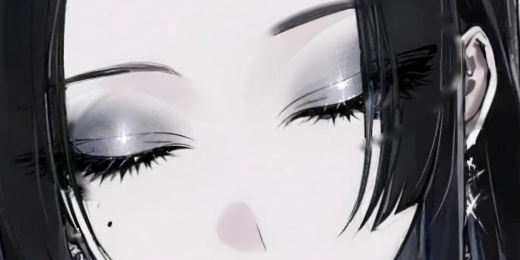
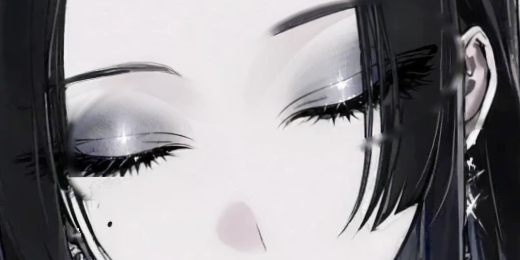
감은 눈 잔상 마저 제거(감은 눈 조각을 맨 위로·가장자리 정리), 보이는 크기만큼만 그려 가볍게, 앱 다시 열 때 화면 꺼짐 방지 다시 걸기
Claude-Session: https://claude.ai/code/session_015z2jERGhkXRnxmKCmzk3Uw

diff --git a/work/celeste/rig/rig.js b/work/celeste/rig/rig.js
@@ -258,6 +258,8 @@ window.CelesteRig = async function(cv, opt = {}){
     draw(t, stage){ EXPR = api.expr; draw(t, stage == null ? api.stage : stage); },
     tap(){ S.react = 1; S.head.vy -= 8; },
     set motion(v){ opt.motion = v; }, get motion(){ return opt.motion; },
+    resize(k){ k = clamp(k, .25, 1); const w = Math.round(IW*k), h = Math.round(IH*k);     // 화면에 보이는 크기만큼만 그려서 가볍게
+      if(cv.width !== w || cv.height !== h){ cv.width = w; cv.height = h; gl.viewport(0, 0, w, h); } },
     point(x, y){ S.pointer = {x, y, t:performance.now()}; },
     seed(s){ let x = s; Math.random = ()=>((x = (x*16807) % 2147483647) / 2147483647); }};
 
@@ -266,11 +268,11 @@ window.CelesteRig = async function(cv, opt = {}){
     ORDER = RIG.order.slice();
     // 얼굴 편집 패치: 눈 감음은 속눈썹 위, 미소·찡그림은 그 위 (앞머리 아래)
     const at = ORDER.indexOf('front_hair');
-    ORDER.splice(at, 0, 'face_frown', 'mouth_smile', 'eyes_closed');
+    ORDER.splice(at, 0, 'face_frown', 'mouth_smile'); ORDER.push('eyes_closed');   // 감은 눈은 맨 위: 눈 위를 지나는 머리카락에 남은 뜬 눈 흔적까지 덮는다(그 머리카락은 머리와 한 덩어리로 움직임)
     const imgs = {};
     await Promise.all(RIG.order.map(async n=>{ imgs[n] = await load(R+n+'.webp'); }).concat(
       ['face_frown','mouth_smile','eyes_closed','mask'].map(async n=>{ imgs[n] = await load(P+n+'.webp'); })));
-    cv.width = IW; cv.height = IH; gl.viewport(0,0,IW,IH);
+    api.resize(opt.scale || 1);
     const prog = program(); gl.enable(gl.BLEND); gl.blendFunc(gl.ONE, gl.ONE_MINUS_SRC_ALPHA);
     U = {p:gl.getAttribLocation(prog,'p'), uv:gl.getAttribLocation(prog,'uv'), ip:gl.getAttribLocation(prog,'ip')};
     [U.p, U.uv, U.ip].forEach(a=>gl.enableVertexAttribArray(a));

diff --git a/work/celeste/app/index.html b/work/celeste/app/index.html
@@ -712,7 +712,7 @@ try{ $('subject').value = localStorage.getItem('midnight.subj') || ''; }catch(e)
 $('subject').addEventListener('change', ()=>{ try{ localStorage.setItem('midnight.subj', $('subject').value.trim()); }catch(e){} });
 $('go').onclick = start;
 $('quit').onclick = giveUp;
-document.addEventListener('visibilitychange', ()=>{ if(!document.hidden && mode === 'run') tickOnce(); });
+document.addEventListener('visibilitychange', ()=>{ if(!document.hidden && mode === 'run'){ tickOnce(); if(mode === 'run') keepAwake(true); } });   // 화면 꺼짐 방지는 앱을 다시 열면 새로 걸어야 한다
 
 { const d = new Date(), age = moonAge(d);
   $('date').textContent = (d.getMonth()+1) + '월 ' + d.getDate() + '일';
@@ -740,7 +740,7 @@ function fit(){
   const fw = IW*sc, fh = IH*sc, top = H - BOT*sc;
   Object.assign($('figure').style, {width:fw + 'px', height:fh + 'px', top:top + 'px'});
   FIG = {x:st.offsetLeft + (st.clientWidth - fw)/2, y:st.offsetTop + top, sc};
-  if(rig) rig.motion = clamp(.32/sc, 1, 1.4);       // 작게 그려질 땐 좌우 움직임만 조금 키운다(너무 크면 인위적)   // 화면(앱) 좌표의 원화 위치
+  if(rig){ rig.motion = clamp(.32/sc, 1, 1.4); rig.resize(sc*Math.min(devicePixelRatio || 1, 3)*1.05); }   // 보이는 크기 × 화면 배율만큼만 그린다       // 작게 그려질 땐 좌우 움직임만 조금 키운다(너무 크면 인위적)   // 화면(앱) 좌표의 원화 위치
   clearTimeout(fit.t); fit.t = setTimeout(()=>buildCollage().catch(e=>console.warn('collage', e)), 120);
 }
 addEventListener('resize', fit); addEventListener('orientationchange', ()=>setTimeout(fit, 300)); addEventListener('pageshow', fit);
